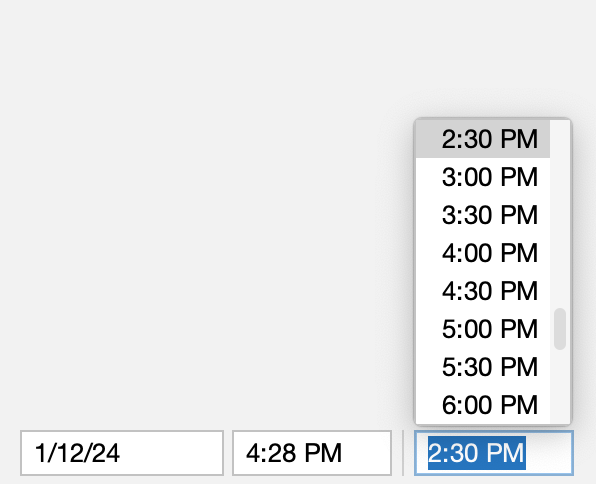
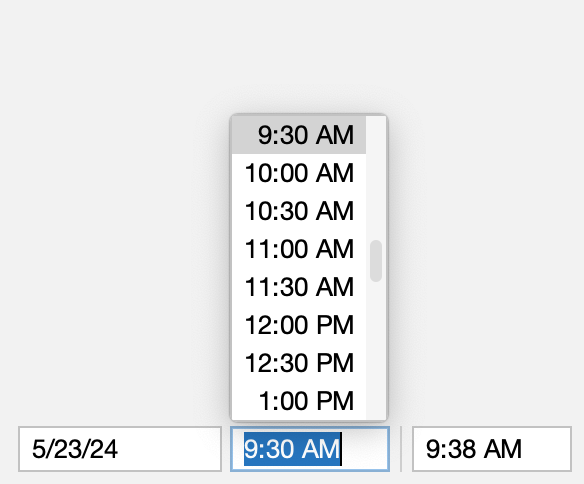
Update documentation.

diff --git a/sierra/src/main/java/org/httprpc/sierra/UIBuilder.java b/sierra/src/main/java/org/httprpc/sierra/UIBuilder.java
@@ -18,8 +18,7 @@ import java.awt.Component;
 import java.util.function.Consumer;
 
 /**
- * Provides static factory methods for declaratively constructing a component
- * hierarchy.
+ * Provides methods for declaratively constructing a component hierarchy.
  */
 public class UIBuilder {
     /**
@@ -64,22 +63,18 @@ public class UIBuilder {
         }
 
         /**
-         * Applies consumers to a cell's component.
+         * Applies initializers to a cell's component.
          *
-         * @param consumers
-         * The consumers to apply.
+         * @param initializers
+         * The initializers to apply.
          *
          * @return
          * The cell instance.
          */
         @SafeVarargs
-        public final Cell<C> with(Consumer<? super C>... consumers) {
-            if (consumers == null) {
-                throw new IllegalArgumentException();
-            }
-
-            for (var i = 0; i < consumers.length; i++) {
-                consumers[i].accept(component);
+        public final Cell<C> with(Consumer<C>... initializers) {
+            for (var i = 0; i < initializers.length; i++) {
+                initializers[i].accept(component);
             }
 
             return this;
@@ -115,10 +110,6 @@ public class UIBuilder {
      * The cell instance.
      */
     public static Cell<RowPanel> row(Cell<?>... cells) {
-        if (cells == null) {
-            throw new IllegalArgumentException();
-        }
-
         return cell(populate(new RowPanel(), cells));
     }
 
@@ -186,10 +177,6 @@ public class UIBuilder {
      * The cell instance.
      */
     public static Cell<ColumnPanel> column(Cell<?>... cells) {
-        if (cells == null) {
-            throw new IllegalArgumentException();
-        }
-
         return cell(populate(new ColumnPanel(), cells));
     }
 
@@ -271,7 +258,7 @@ public class UIBuilder {
     }
 
     /**
-     * Declares a flexible spacer cell with a weight of 1.0.
+     * Declares a flexible spacer cell.
      *
      * @return
      * The cell instance.
@@ -281,7 +268,7 @@ public class UIBuilder {
     }
 
     /**
-     * Declares a flexible spacer cell with a given weight.
+     * Declares a flexible spacer cell.
      *
      * @param weight
      * The cell weight.
@@ -303,10 +290,6 @@ public class UIBuilder {
      * The cell instance.
      */
     public static Cell<StackPanel> stack(Cell<?>... cells) {
-        if (cells == null) {
-            throw new IllegalArgumentException();
-        }
-
         var panel = new StackPanel();
 
         for (var i = cells.length - 1; i >= 0; i--) {

diff --git a/sierra-test/src/main/java/org/httprpc/sierra/test/DateTimePickerTest.java b/sierra-test/src/main/java/org/httprpc/sierra/test/DateTimePickerTest.java
@@ -60,28 +60,26 @@ public class DateTimePickerTest extends JFrame implements Runnable {
                 cell(new DatePicker()).with(datePicker -> {
                     var now = LocalDate.now();
 
-                    datePicker.setDate(now);
                     datePicker.setMinimumDate(now.minusMonths(3));
                     datePicker.setMaximumDate(now.plusMonths(3));
+
                     datePicker.setPopupVerticalAlignment(VerticalAlignment.TOP);
 
                     datePicker.addActionListener(event -> showSelection(dateFormatter, datePicker.getDate()));
                 }),
-                cell(new TimePicker()).with(timePicker -> {
-                    var now = LocalTime.now();
-
-                    timePicker.setTime(now);
+                cell(new TimePicker(30)).with(timePicker -> {
                     timePicker.setMinimumTime(LocalTime.of(6, 0));
                     timePicker.setMaximumTime(LocalTime.of(18, 0));
+
                     timePicker.setPopupVerticalAlignment(VerticalAlignment.TOP);
 
                     timePicker.addActionListener(event -> showSelection(timeFormatter, timePicker.getTime()));
                 }),
                 cell(new JSeparator(SwingConstants.VERTICAL)),
-                cell(new TimePicker(30)).with(timePicker -> {
-                    timePicker.setTime(LocalTime.of(14, 30));
+                cell(new TimePicker()).with(timePicker -> {
                     timePicker.setMinimumTime(LocalTime.of(6, 0));
                     timePicker.setMaximumTime(LocalTime.of(18, 0));
+
                     timePicker.setPopupVerticalAlignment(VerticalAlignment.TOP);
 
                     timePicker.addActionListener(event -> showSelection(timeFormatter, timePicker.getTime()));

diff --git a/sierra/src/main/java/org/httprpc/sierra/TimePicker.java b/sierra/src/main/java/org/httprpc/sierra/TimePicker.java
@@ -155,6 +155,10 @@ public class TimePicker extends Picker {
         this.minuteInterval = minuteInterval;
 
         setInputVerifier(inputVerifier);
+
+        var now = LocalTime.now();
+
+        setTime(LocalTime.of(now.getHour(), (now.getMinute() / minuteInterval) * minuteInterval));
     }
 
     /**
@@ -184,15 +188,11 @@ public class TimePicker extends Picker {
      * The selected time.
      */
     public void setTime(LocalTime time) {
-        if (time == null) {
-            super.setText(null);
-        } else {
-            if (!validate(time)) {
-                throw new IllegalArgumentException();
-            }
-
-            super.setText(timeFormatter.format(time));
+        if (time == null || !validate(time)) {
+            throw new IllegalArgumentException();
         }
+
+        super.setText(timeFormatter.format(time));
 
         this.time = truncate(time);
     }
@@ -264,15 +264,6 @@ public class TimePicker extends Picker {
     }
 
     /**
-     * Throws {@link UnsupportedOperationException}.
-     * {@inheritDoc}
-     */
-    @Override
-    public void setText(String text) {
-        throw new UnsupportedOperationException();
-    }
-
-    /**
      * Verifies the contents of the text field.
      * {@inheritDoc}
      */
@@ -327,6 +318,6 @@ public class TimePicker extends Picker {
     }
 
     private static LocalTime truncate(LocalTime time) {
-        return (time == null) ? null : time.withSecond(0).withNano(0);
+        return time.withSecond(0).withNano(0);
     }
 }

diff --git a/sierra/src/main/java/org/httprpc/sierra/DatePicker.java b/sierra/src/main/java/org/httprpc/sierra/DatePicker.java
@@ -216,6 +216,8 @@ public class DatePicker extends Picker {
         super(8);
 
         setInputVerifier(inputVerifier);
+
+        setDate(LocalDate.now());
     }
 
     /**
@@ -235,15 +237,11 @@ public class DatePicker extends Picker {
      * The selected date.
      */
     public void setDate(LocalDate date) {
-        if (date == null) {
-            super.setText(null);
-        } else {
-            if (!validate(date)) {
-                throw new IllegalArgumentException();
-            }
-
-            super.setText(dateFormatter.format(date));
+        if (date == null || !validate(date)) {
+            throw new IllegalArgumentException();
         }
+
+        super.setText(dateFormatter.format(date));
 
         this.date = date;
     }
@@ -311,15 +309,6 @@ public class DatePicker extends Picker {
         }
 
         this.maximumDate = maximumDate;
-    }
-
-    /**
-     * Throws {@link UnsupportedOperationException}.
-     * {@inheritDoc}
-     */
-    @Override
-    public void setText(String text) {
-        throw new UnsupportedOperationException();
     }
 
     /**

diff --git a/README.md b/README.md
@@ -37,7 +37,7 @@ public static <C extends Component> Cell<C> cell(C component) { ... }
 The returned `Cell` instance can be used to further customize the layout or configuration of the provided component:
 
 * `weightBy()` - specifies the amount of excess space in a container that should be allocated to the component, relative to other weighted components
-* `with()` - accepts a callback that can be used to set properties or invoke methods on the component
+* `with()` - accepts initialization callbacks that can be used to set properties or invoke methods on the component
 
 A reference to the configured component can be obtained via `Cell#getComponent()`.
 
@@ -85,8 +85,8 @@ See [MenuButtonTest.java](https://github.com/HTTP-RPC/Sierra/blob/master/sierra-
 ### Date and Time Pickers
 The `DatePicker` and `TimePicker` components allow a user to select a local date and time, respectively:
 
-<img src="README/date-picker.png" width="298px"/>
-<img src="README/time-picker.png" width="298px"/>
+<img src="README/date-picker.png" width="292px"/>
+<img src="README/time-picker.png" width="292px"/>
 
 These classes are localized. See [DateTimePickerTest.java](https://github.com/HTTP-RPC/Sierra/blob/master/sierra-test/src/main/java/org/httprpc/sierra/test/DateTimePickerTest.java) for more information.
 
